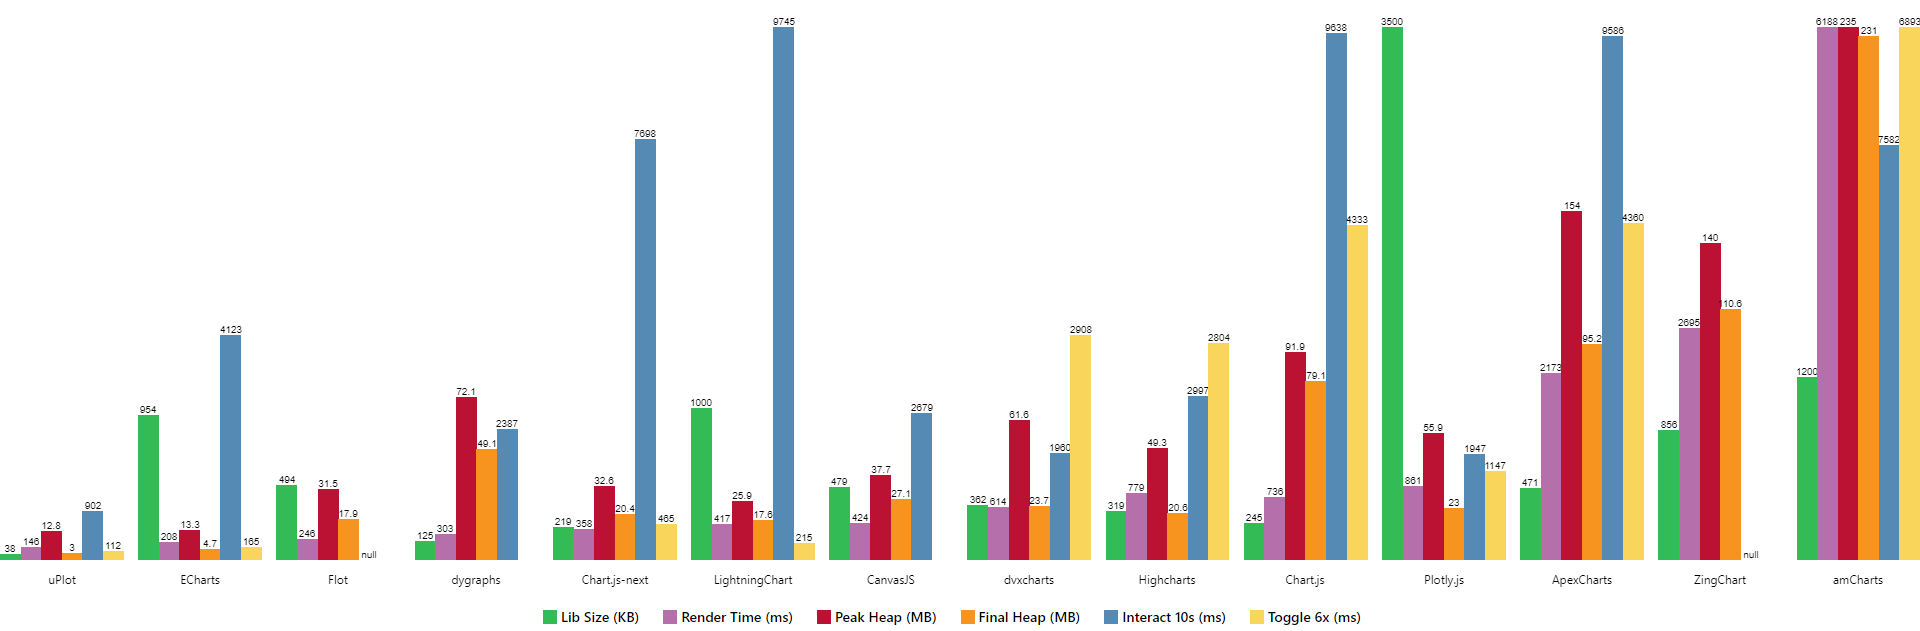
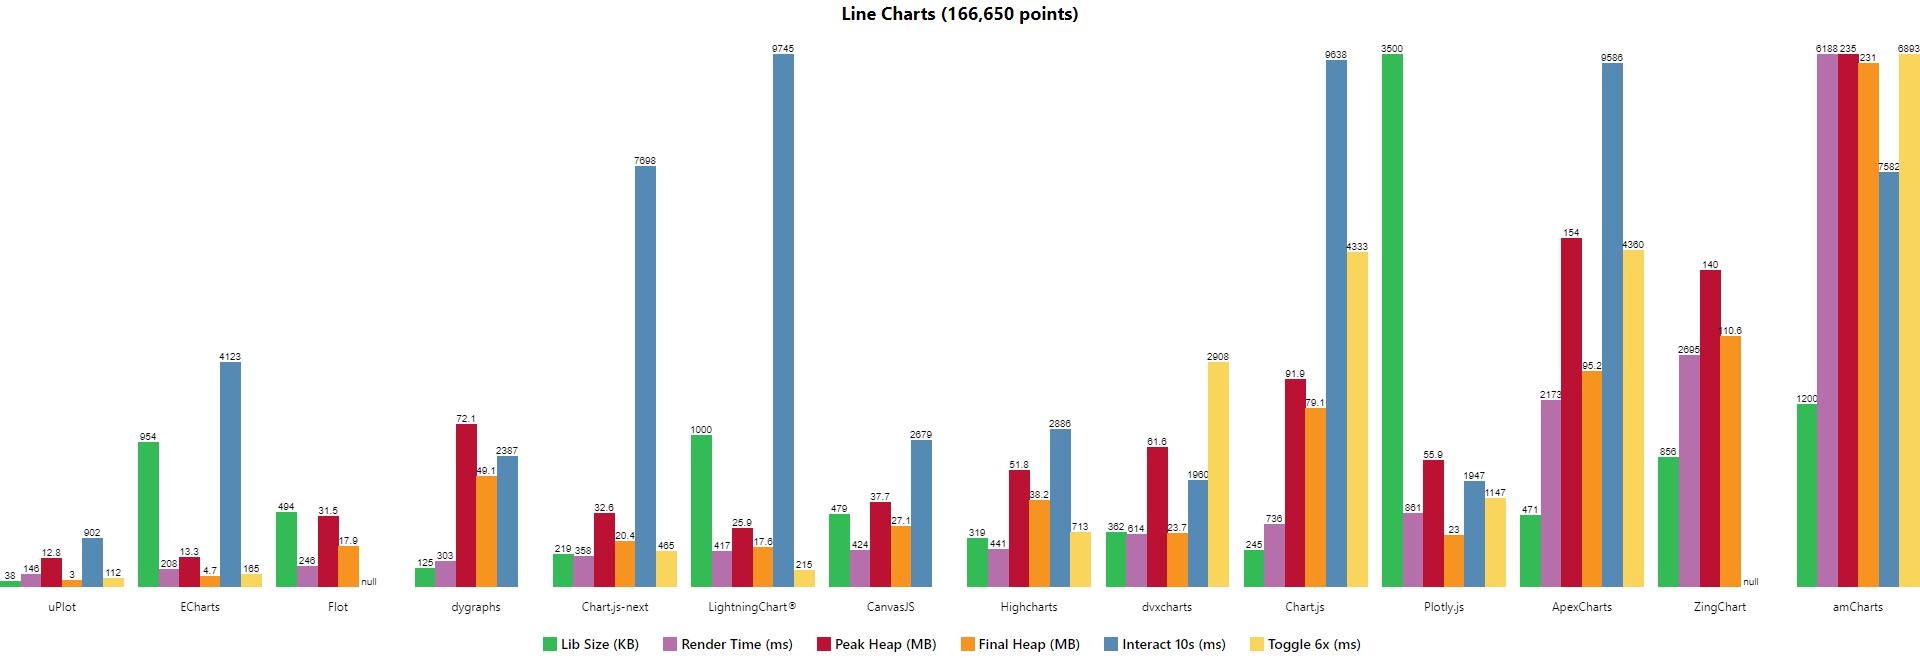
re-bench Highcharts with disabled animations and timestamps

diff --git a/bench/Highcharts.html b/bench/Highcharts.html
@@ -56,6 +56,7 @@
 					},
 					chart: {
 						zoomType: 'x',
+						animation: false,
 						events: {
 							render: () => {
 								wait.textContent = "Done!";
@@ -70,7 +71,8 @@
 						text: 'Using the Boost module'
 					},
 					tooltip: {
-						valueDecimals: 2
+						valueDecimals: 2,
+						animation: false,
 					},
 					xAxis: {
 						type: 'datetime'

diff --git a/bench/table.md b/bench/table.md
@@ -5,10 +5,10 @@
 | <a href="https://leeoniya.github.io/uPlot/bench/Flot.html">Flot</a>            |  494 KB |  110 ms |  166   5   2   73 |  32 MB  18 MB   | ---                 |
 | <a href="https://leeoniya.github.io/uPlot/bench/dygraphs.html">dygraphs</a>        |  125 KB |  155 ms |  200   4   1   98 |  72 MB  49 MB   | 1663  237  113  374 |
 | <a href="https://leeoniya.github.io/uPlot/bench/Chart.js-next.html">Chart.js-next</a>   |  219 KB |  250 ms |  290   2   1   65 |  33 MB  20 MB   | 6256   50   79 1313 |
-| <a href="https://leeoniya.github.io/uPlot/bench/LightningChart®.html">LightningChart®</a> | 1000 KB |  --- ms |  359   3   1   54 |  26 MB  18 MB   | 9308   87   71  279 |
+| <a href="https://leeoniya.github.io/uPlot/bench/LightningChart.html">LightningChart®</a> | 1000 KB |  --- ms |  359   3   1   54 |  26 MB  18 MB   | 9308   87   71  279 |
 | <a href="https://leeoniya.github.io/uPlot/bench/CanvasJS.html">CanvasJS</a>        |  479 KB |  292 ms |  340   3   1   80 |  38 MB  27 MB   | 1782  431  112  354 |
+| <a href="https://leeoniya.github.io/uPlot/bench/Highcharts.html">Highcharts</a>      |  319 KB |  --- ms |  370   8   2   61 |  52 MB  38 MB   | 1806  661  176  243 |
 | <a href="https://leeoniya.github.io/uPlot/bench/dvxcharts.html">dvxcharts</a>       |  362 KB |  310 ms |  518  26   2   68 |  62 MB  24 MB   | 1033  592  146  189 |
-| <a href="https://leeoniya.github.io/uPlot/bench/Highcharts.html">Highcharts</a>      |  319 KB |  --- ms |  717   8   2   52 |  49 MB  21 MB   | 1849  682  192  274 |
 | <a href="https://leeoniya.github.io/uPlot/bench/Chart.js.html">Chart.js</a>        |  245 KB |  616 ms |  661   3   2   70 |  92 MB  79 MB   | 8471    6    9 1152 |
 | <a href="https://leeoniya.github.io/uPlot/bench/Plotly.js.html">Plotly.js</a>       | 3500 KB |  449 ms |  769   8   2   82 |  56 MB  23 MB   | 1522  201   52  172 |
 | <a href="https://leeoniya.github.io/uPlot/bench/ApexCharts.html">ApexCharts</a>      |  471 KB |  --- ms | 2070  25   2   76 | 154 MB  95 MB   | 8593  713  106  174 |

diff --git a/README.md b/README.md
@@ -80,8 +80,8 @@ Raw data: https://github.com/leeoniya/uPlot/blob/master/bench/results.json
 | <a href="https://leeoniya.github.io/uPlot/bench/Chart.js-next.html">Chart.js-next</a>   |  219 KB |  250 ms |  290   2   1   65 |  33 MB  20 MB   | 6256   50   79 1313 |
 | <a href="https://leeoniya.github.io/uPlot/bench/LightningChart.html">LightningChart®</a> | 1000 KB |  --- ms |  359   3   1   54 |  26 MB  18 MB   | 9308   87   71  279 |
 | <a href="https://leeoniya.github.io/uPlot/bench/CanvasJS.html">CanvasJS</a>        |  479 KB |  292 ms |  340   3   1   80 |  38 MB  27 MB   | 1782  431  112  354 |
+| <a href="https://leeoniya.github.io/uPlot/bench/Highcharts.html">Highcharts</a>      |  319 KB |  --- ms |  370   8   2   61 |  52 MB  38 MB   | 1806  661  176  243 |
 | <a href="https://leeoniya.github.io/uPlot/bench/dvxcharts.html">dvxcharts</a>       |  362 KB |  310 ms |  518  26   2   68 |  62 MB  24 MB   | 1033  592  146  189 |
-| <a href="https://leeoniya.github.io/uPlot/bench/Highcharts.html">Highcharts</a>      |  319 KB |  --- ms |  717   8   2   52 |  49 MB  21 MB   | 1849  682  192  274 |
 | <a href="https://leeoniya.github.io/uPlot/bench/Chart.js.html">Chart.js</a>        |  245 KB |  616 ms |  661   3   2   70 |  92 MB  79 MB   | 8471    6    9 1152 |
 | <a href="https://leeoniya.github.io/uPlot/bench/Plotly.js.html">Plotly.js</a>       | 3500 KB |  449 ms |  769   8   2   82 |  56 MB  23 MB   | 1522  201   52  172 |
 | <a href="https://leeoniya.github.io/uPlot/bench/ApexCharts.html">ApexCharts</a>      |  471 KB |  --- ms | 2070  25   2   76 | 154 MB  95 MB   | 8593  713  106  174 |
